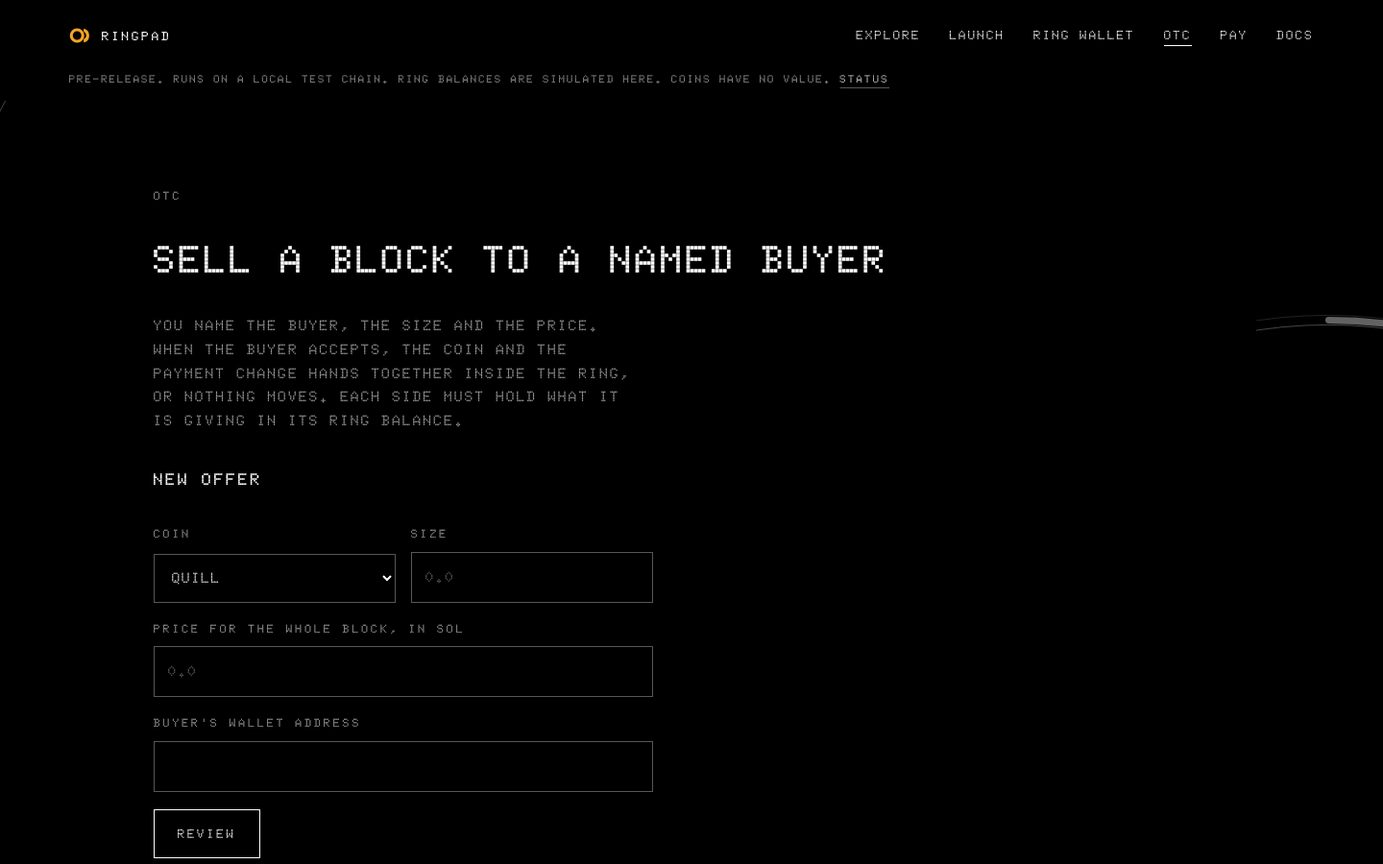
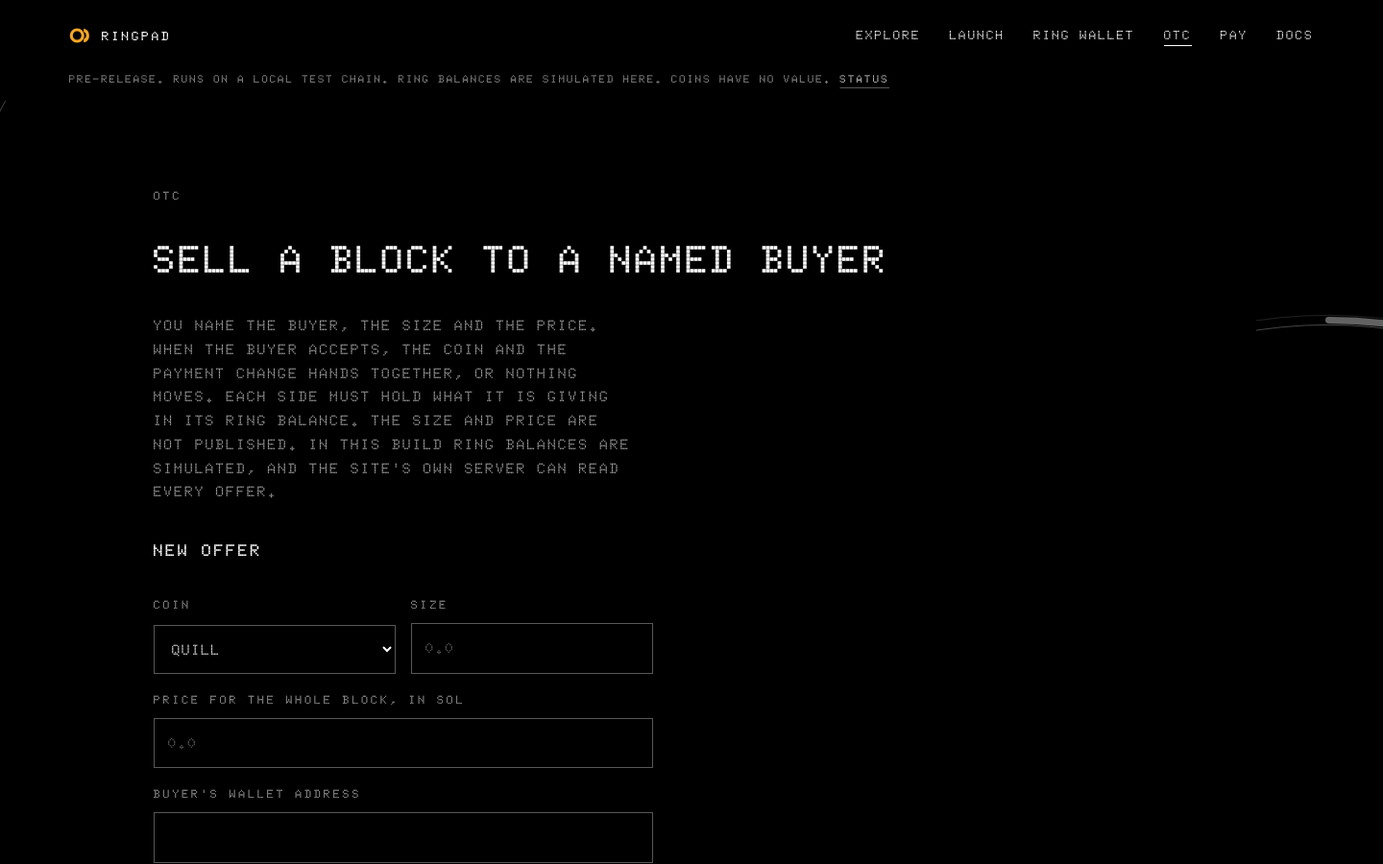
Ring plan, the list of every place the site says simulated, and the same said on each Ring page
RING-PLAN.md maps each stand-in feature to the real Privacy Rings
program and sets the order of work. SITE-WORDING.md quotes every notice.
The Ring wallet, OTC, pay and coin pages now each say that Ring balances
are simulated in this build. The sealed launch window stays off.

Claude-Session: https://claude.ai/code/session_01TfgBavJjwrrkmBWhBfTY3V

diff --git a/components/pages/PayPage.tsx b/components/pages/PayPage.tsx
@@ -34,7 +34,7 @@ function QrCode({ text }: { text: string }) {
 }
 
 const INTRO =
-  "A pay link names a recipient, a coin and an amount, and opens a Ring transfer with them filled in. Anyone who holds the link can read what it asks for. The request travels in the part of the link that browsers do not send to servers. The payment is a transfer between the two wallets: they are public, the coin and the amount are not published.";
+  "A pay link names a recipient, a coin and an amount, and opens a Ring transfer with them filled in. Anyone who holds the link can read what it asks for. The request travels in the part of the link that browsers do not send to servers. The payment is a transfer between the two wallets: they are public, the coin and the amount are not published. In this build Ring balances are simulated.";
 
 export function PayPage() {
   // The link is read in the browser: until then nothing is known, which is its own state.

diff --git a/components/pages/OtcPage.tsx b/components/pages/OtcPage.tsx
@@ -19,7 +19,7 @@ export function OtcPage() {
     <AppPage
       label="OTC"
       title="Sell a block to a named buyer"
-      intro="You name the buyer, the size and the price. When the buyer accepts, the coin and the payment change hands together inside the Ring, or nothing moves. Each side must hold what it is giving in its Ring balance."
+      intro="You name the buyer, the size and the price. When the buyer accepts, the coin and the payment change hands together, or nothing moves. Each side must hold what it is giving in its Ring balance. The size and price are not published. In this build Ring balances are simulated, and the site's own server can read every offer."
     >
       <NeedsRing>
         <WalletGate>

diff --git a/components/pages/CoinPage.tsx b/components/pages/CoinPage.tsx
@@ -113,7 +113,7 @@ export function CoinPage({ mint }: { mint: string }) {
       </dl>
       <p className="body">
         The Ring figures count what is public: the coin&apos;s total held in Ring balances, and wallets that made a deposit. How that total is split between
-        holders is encrypted, so the number of holders inside the Ring cannot be known.
+        holders is not published, so the number of holders inside the Ring cannot be known. In this build Ring balances are simulated.
       </p>
       {coin.complete ? (
         <p className="notice">This curve has completed, so the coin no longer trades on the bonding curve. It can still be held and moved in Ring balances.</p>

diff --git a/components/pages/WalletPage.tsx b/components/pages/WalletPage.tsx
@@ -27,7 +27,7 @@ export function WalletPage() {
     <AppPage
       label="Ring wallet"
       title="Deposit, transfer, withdraw"
-      intro="Moving coins into or out of a Ring balance is public. Moving them between Ring balances encrypts the coin and the amount; both wallet addresses stay public."
+      intro="Moving coins into or out of a Ring balance is public. A move between Ring balances does not publish the coin or the amount; both wallet addresses stay public. In this build Ring balances are simulated: the site's own server keeps them and can read every move."
     >
       <WalletGate>
         <NeedsRing instead={<PublicWallet />}>

diff --git a/components/PrivacyPanel.tsx b/components/PrivacyPanel.tsx
@@ -17,7 +17,7 @@ export function PrivacyPanel({ action }: { action: string }) {
           ))}
         </div>
         <div>
-          <dt>Encrypted</dt>
+          <dt>Encrypted by a Ring</dt>
           {row.encrypted.length ? (
             row.encrypted.map((item) => (
               <dd key={item} className="enc">

diff --git a/RING-PLAN.md b/RING-PLAN.md
@@ -1,0 +1,223 @@
+# Ring plan: from the stand-in to the real Privacy Rings program
+
+21 November 2026.
+
+**Where this comes from.** The SDK that is already installed in this project,
+`@heliuslabs/spr` 0.9.0-alpha: its README and its type definitions, read on this date.
+**Nothing below has been run.** A real Ring deposit was tried once on the local validator
+and failed (`InvalidTreeAccounts`); nothing has been tried on devnet, because there is no
+key. Every "should" in this file is a claim to be proven in the order given at the end.
+Where the SDK does not say, this file says "not known".
+
+## Does the finished product hold user funds?
+
+**No, with one exception that stays switched off.**
+
+- Once the stand-in is replaced, coins in a Ring balance are held by the Privacy Rings
+  program on-chain and can be spent only with the user's own keys. This site's server
+  holds no key that can move them. The escrow wallet, the ledger and the payout code are
+  deleted.
+- This site never holds a user's private key. Keys are made in the user's browser or
+  stay in their wallet extension.
+- **The exception is the sealed launch window.** It pools buyers' SOL before a coin
+  exists, and whoever holds the pool holds funds. That stays behind
+  `FEATURE_SEALED_WINDOW`, off, and does not ship without your say-so and an outside
+  review. Under the real Ring it would still be custody: see "Cannot be done".
+- A fee sponsor or relayer, if we add one, holds only its own SOL for fees.
+- Not ours, but true: Helius's protocol authorities are multisigs that can pause a Ring's
+  state trees (reported from their repository, not verified by us). A pause would stop
+  transfers and withdrawals for everyone. That is their power, not ours, and the site
+  should say so.
+
+## The pieces of the real Ring
+
+| Piece | What it is | Who runs it |
+| --- | --- | --- |
+| Shielded pool program `ring1GaLCuJnkUMVkX2JeZLTTX17wKsV4fZmPVzXANW` | Holds the coins and verifies proofs | On-chain |
+| User registry `regy3WAeRXMYuMYxr5iK3Bf9Arr3PcxGxyzAddbiqDQ` | Maps a Solana address to the keys others encrypt to | On-chain |
+| State tree `777pvSGe5LaBd9nCczvE2FXEauiwtfGJ5XRpjKyniGor` (devnet) | Where encrypted balances are recorded | On-chain |
+| Indexer (Photon) | Serves the encrypted records a wallet scans for its own | Helius |
+| Prover | Makes the zero-knowledge proof for a transfer or withdrawal. By default it runs in an enclave; the SDK checks the enclave's attestation and encrypts each request to it | Helius |
+| Solana RPC | Sends transactions | Helius, with the API key |
+
+A balance is not a number in an account. It is a set of encrypted notes that only the
+owner's keys can find and open. The wallet finds them by asking the indexer and trying
+its keys (`syncWallet`).
+
+## Feature by feature
+
+### Ring balance (reading it)
+
+| | Stand-in today | Real Ring |
+| --- | --- | --- |
+| Where it is | A number in this server's state | Encrypted notes on-chain |
+| How it is read | Signed request `ring/mine` to our server | In the browser: `syncWallet({ client, wallet, keys })`, then `wallet.balance(mint)` and `getPrivateTransactions(wallet)` |
+| Keys | None | `ShieldedKeypair.fromKeypair(SigningKey.fromEd25519Bytes(seed))` for a wallet made in the browser. For a wallet extension: `LocalKeys.fromDerivationSeed`, from the extension's signature over `ed25519DerivationMessage(publicKey)`. One signature at connect, which can replace the note-key signature we ask for today |
+| Our server | Holds and sees every balance | Holds none. Sees none |
+
+The wallet's synced state is cached in the browser, encrypted
+(`syncPersistedWallet`, `walletSnapshotCipher`), so a reload does not rescan history.
+
+### Registration
+
+| | Stand-in | Real Ring |
+| --- | --- | --- |
+| What | A line in our state | An on-chain record: `buildRegistrationTransaction({ client, owner, address })`, instruction `register` on the registry program |
+| Cost | Nothing | Rent for the record, once, paid by the user or a sponsor (`payer`) |
+| Without it | "Not registered" from our server | A transfer to that wallet fails with `WALLET_RECIPIENT_NOT_REGISTERED` |
+
+### Deposit
+
+| | Stand-in | Real Ring |
+| --- | --- | --- |
+| Transaction | A token transfer to our escrow wallet | `buildDepositTransaction({ client, feePayer, recipient, asset, splTokenAccount, amount, splTokenProgram })`, instruction `deposit` on the pool program. Token-2022 for pump.fun coins |
+| Accounts | Depositor, escrow's token account | Depositor and their token account, the coin's Ring interface (the pool's vault for that coin, made at launch by `createSplInterface`), the state tree |
+| Public | Wallet, coin, amount | The same. A deposit is public by design |
+| Our server | Receives the coins. Credits the ledger from the chain | Receives nothing. Builds nothing: the browser builds and signs |
+
+### Transfer between Ring balances
+
+| | Stand-in | Real Ring |
+| --- | --- | --- |
+| What it is | A signed request; two numbers change in our state | One Solana transaction with a proof: `buildTransferTransaction({ client, wallet, keys, feePayer, recipient, asset, amount })`, instruction `transact` |
+| Proof | None | Made by the prover from the wallet's notes. Verified on-chain |
+| Public | Both wallets, time (because we publish them) | Both wallets, time (on-chain, by design of the Default Ring) |
+| Hidden | Coin and amount, from the public only | Coin and amount, from the public and from us |
+| Note | Sealed in the browser, stored by us | **The transfer builder takes no note.** Notes stay as they are today: sealed in the browser with libsodium, stored by us as ciphertext, attached to the transfer by its signature |
+| Limits | None | A transfer spends whole notes. A wallet that has received many small payments must merge them first (`buildMergeTransaction`), or the build fails with `WALLET_TOO_MANY_INPUTS`. The interface needs a "tidy up" step |
+
+### Withdraw
+
+| | Stand-in | Real Ring |
+| --- | --- | --- |
+| Transaction | Our escrow pays out | `buildWithdrawalTransaction({ client, wallet, keys, feePayer, recipient, asset, amount, splTokenProgram })`, instruction `transact` with a public output. The recipient's token account is opened in the same transaction if needed |
+| Who signs | Our server | The user |
+| Public | Wallet, destination, coin, amount | Destination, coin, amount. The withdrawing wallet too, unless a sponsor pays the fee and the owner signs inside the proof (`owner` parameter): then the sender is not on the transaction |
+| Our server | Holds the coins, signs, tracks pending payouts | None of it. The "pending payout" and "reconcile" code goes |
+
+### Launch, with a first buy into the Ring
+
+| | Stand-in | Real Ring |
+| --- | --- | --- |
+| Create and register | Real already: pump.fun `create_v2` + Rings `createSplInterface` | Unchanged |
+| First buy into the Ring | Buy, then a token transfer to escrow | Buy, then the `deposit` instruction (`getDepositInstructionAsync`) in the same transaction |
+| Risk | | **Size.** Rings transactions are a newer format (version 1, up to 4,096 bytes); our launch is version 0 with a lookup table, 1,232 bytes. Whether create + buy + register + deposit fits in either is **not known**. If not: launch in one transaction, deposit in a second, and say so |
+| Note | | On mainnet, registering a coin with the Ring may need Helius's permission for each coin. **Not verified.** If so, a launch here cannot register by itself there |
+
+### Creator fee claim into the Ring
+
+pump.fun's claim instruction followed by the `deposit` instruction for SOL, in one
+transaction. Public either way, as now. Same size question as the launch, smaller.
+
+### Pay links
+
+Unchanged in shape. The link still carries its request after the `#`. Paying it becomes
+`buildTransferTransaction` to the recipient's address. Our server no longer sees the
+payment at all, only the sealed note if there is one.
+
+### OTC
+
+| | Stand-in | Real Ring |
+| --- | --- | --- |
+| Offer | Stored readable on our server | Sealed in the seller's browser to the buyer's key (the same libsodium sealed box as notes). We store ciphertext and the two addresses |
+| Settlement | Our ledger swaps both sides in one step | **Not known to be possible as one step.** It needs two transfers, one by each party, to land together or not at all. The plan: both `transact` instructions in one Solana transaction, signed by both. Whether two proofs fit in 4,096 bytes and the compute limit is to be proven |
+| If it does not fit | | OTC is offered only as "seller sends first" with that risk stated, or is withdrawn. It is **not** rebuilt with an escrow of ours: that would be custody |
+
+### Privacy score
+
+Both figures become plain chain reads, with no ledger behind them: the total of a coin in
+the Ring is the balance of that coin's Ring vault account; "wallets that have deposited"
+is counted from `deposit` instructions on that vault. Our server keeps a count, not a
+ledger.
+
+### Sealed notes, pictures, listings, price readings
+
+Unchanged. None of them touches a Ring balance.
+
+## What our server stops holding and seeing
+
+| | Today | Once real |
+| --- | --- | --- |
+| Coins in Ring balances | Held in our escrow wallet | Not held |
+| The escrow key | On our server's disk | Deleted |
+| Every wallet's Ring balance | Stored, readable | Not stored, not readable |
+| Coin and amount of every transfer | Stored, readable | Never sent to us |
+| OTC terms | Stored, readable | Stored sealed; not readable |
+| Pending payouts, reconciliation | Ours | Gone |
+| Ring history | Stored | Read in the browser from the indexer |
+| Signed requests for Ring actions | Verified by us | Gone: the chain verifies a proof instead |
+
+What it still holds: coin listings and pictures, price readings, sealed notes and sealed
+offers as ciphertext, request counts per address.
+
+What it still sees, and this must be said on the site:
+
+- **IP addresses**, as now.
+- **The Helius key lives on our server**, so the browser reaches the RPC, the indexer and
+  the prover through us. We therefore see every request pass. Requests to the prover are
+  encrypted to its enclave, so we cannot read them. Requests to the indexer are not
+  secret in the same way: we would see which records a browser asks for, and when. That
+  is metadata tying an IP address to a wallet's activity. Whether the indexer can be
+  queried in a way that hides this is **not known**.
+- **Helius** sees what its indexer and RPC are asked, and runs the prover. The proof's
+  secret inputs go to the prover's enclave. Making proofs in the browser instead needs
+  Helius's separate web prover package, which is not part of this SDK and which we have
+  not used; whether to adopt it is a decision for the devnet pass.
+
+## Cannot be done on the real Default Ring
+
+- **Hide either wallet address.** Every transfer shows sender and recipient. Only
+  Helius's anonymous rings would change that, and they are not released.
+- **Hide a deposit or a withdrawal.** Coin and amount are public on the way in and out.
+- **Hide anything on the bonding curve.** Launch, buys, sells and fee claims are pump.fun
+  transactions.
+- **Attach a private note to a transfer on-chain.** The transfer has no note field.
+- **Pay a wallet that has not registered.** There is nothing to encrypt to.
+- **A sealed launch window without custody.** Whoever holds the pooled SOL before the
+  coin exists holds funds, on the real Ring as on the stand-in.
+- **An OTC escrow without custody.** See OTC above.
+- **Proof of holdings above a threshold.** The Ring has no such proof. Already dropped.
+
+## What has to change in our own code
+
+1. **A seam.** One interface, `RingBackend`, with today's stand-in behind it and the real
+   Ring as a second implementation, chosen by `RING_NETWORK`. Pages call the interface.
+2. **The SDK runs in the browser.** Keys must not reach our server. Its endpoints go
+   through a proxy route on our server that adds the Helius key.
+3. **Signing.** Rings transactions are version 1. Our signing code reads legacy and
+   version 0 only, and wallet extensions must be able to sign version 1. **Not known**
+   whether today's extensions do.
+4. **Two libraries.** The SDK uses `@solana/kit`; pump.fun's SDK uses `web3.js`. The
+   launch needs instructions from both in one transaction.
+5. **Deleted once real:** `lib/server/escrow.ts`, `lib/server/ring.ts`, most of
+   `lib/server/settle.ts`, the withdrawal and reconcile operations, the escrow rows on
+   the status page, and every "simulated" sentence listed in `SITE-WORDING.md`.
+
+## Order of work, each step proven before the next
+
+| # | Step | Proven by | Stops the plan if |
+| --- | --- | --- | --- |
+| 0 | The seam: `RingBackend`, with the stand-in behind it. No behaviour changes | Every existing test still passes | |
+| 1 | Reach devnet: proxy route, `createSprClient`, prover attestation check | A script that prints the client's health; `npm run doctor` | Helius's Ring endpoints are not open to our key |
+| 2 | Keys and registration for a browser-made wallet | The registry record read back from the chain | |
+| 3 | Deposit SOL, then a pump.fun Token-2022 coin | Vault balance on-chain rises by exactly the amount; `syncWallet` shows it | The Ring refuses pump.fun coins on devnet |
+| 4 | Read balance and history in the browser; encrypted local cache | Reload shows the same balance without a rescan | |
+| 5 | Transfer between two registered wallets | Both wallets' synced balances; the transaction on-chain shows no coin or amount | Proofs cannot be had with our key |
+| 6 | Withdraw, to self and to a fresh address | Destination's on-chain balance; vault falls by exactly the amount | |
+| 7 | Merge, and the "tidy up" step in the interface | A wallet with many small notes can send again | |
+| 8 | Launch with first buy into the Ring, and fee claim into the Ring | One transaction if it fits; otherwise two, and the page says two | |
+| 9 | Pay links on real transfers | The existing pay-link browser run, on devnet | |
+| 10 | Wallet extensions: key derivation by signature; version 1 signing | A real extension, on your machine. I cannot run one here | Extensions cannot sign version 1 |
+| 11 | OTC: sealed offers; one-transaction settlement, if it fits | Both sides' balances after one transaction; neither moves if it fails | It does not fit: OTC is reduced or withdrawn |
+| 12 | Privacy score from the vault; status page from the chain | Figures equal direct chain reads | |
+| 13 | Delete the stand-in and its wording. Sponsor for withdrawal fees, if wanted | `npm run scan`; the wording test; the full report repeated on devnet | |
+
+Each step gets flow tests against devnet beside the local ones, and the browser checks
+are repeated on devnet at steps 6, 9 and 13. The local validator keeps the stand-in for
+offline tests until step 13, behind the seam.
+
+## What I need to start
+
+`HELIUS_API_KEY`, and a few devnet SOL in a wallet whose address I will give you
+(`NEEDS.md`, items 2 and 3). Nothing else blocks step 0, which needs no key and which I
+have not started, as you asked me to stop here.

diff --git a/SITE-WORDING.md b/SITE-WORDING.md
@@ -1,0 +1,86 @@
+# Where the site says something is simulated, not connected, or not final
+
+21 November 2026. Every place a visitor is told that a feature is a stand-in, for you to
+check the wording. Text is quoted as it appears (the site shows it in capitals).
+
+A test (`test/unit/site.test.ts`) fails if the homepage's own copy calls anything the
+stand-in does "encrypted", or if the site says "anonymous", "untraceable",
+"zero-knowledge", "shielded" and similar.
+
+## On every page
+
+| Where | Wording | Source |
+| --- | --- | --- |
+| The line under the header, local chain | "Pre-release. Runs on a local test chain. Ring balances are simulated here. Coins have no value. Status" | `components/Chrome.tsx` |
+| The same line, devnet | "Pre-release. Runs on Solana devnet. Ring balances are not connected yet. Coins have no value. Status" | `components/Chrome.tsx` |
+| The same line, server down | "Pre-release. This site's server is not answering." | `components/Chrome.tsx` |
+| Footer | "This is a pre-release build and is unaudited. Privacy Rings and their SDK are alpha software. Nothing here is financial advice. Coins launched on a bonding curve are speculative and can go to zero." | `components/Chrome.tsx` |
+| Footer | "RINGPAD is an independent project. It is not affiliated with, endorsed by or operated by Helius, pump.fun, or any other site built on Privacy Rings." | `components/Chrome.tsx` |
+
+## Homepage
+
+| Where | Wording | Source |
+| --- | --- | --- |
+| "How it works", callout 04 | "A Ring keeps your balance encrypted on-chain. Simulated in this build." | `site.config.ts` |
+| "What is hidden, and what is not" | "This table describes the Privacy Rings design. In this pre-release build the Ring's balances are simulated; see the Docs for exactly what is real today." | `app/page.tsx` |
+| "What RINGPAD adds", five features | "Works on the local test chain" beside each | `app/page.tsx` |
+| The same list, sealed window | "Built, switched off" and "It holds buyers' funds, so it is built but switched off." | `app/page.tsx` |
+
+## Ring wallet, OTC, Pay, coin pages
+
+| Where | Wording | Source |
+| --- | --- | --- |
+| Ring wallet, introduction | "In this build Ring balances are simulated: the site's own server keeps them and can read every move." | `components/pages/WalletPage.tsx` |
+| OTC, introduction | "In this build Ring balances are simulated, and the site's own server can read every offer." | `components/pages/OtcPage.tsx` |
+| Pay links, introduction | "In this build Ring balances are simulated." | `components/pages/PayPage.tsx` |
+| Coin page, under the Ring figures | "How that total is split between holders is not published, so the number of holders inside the Ring cannot be known. In this build Ring balances are simulated." | `components/pages/CoinPage.tsx` |
+| Before every signature, the privacy panel | A column headed "Encrypted by a Ring", then a line beginning "In this build:" that says what does the work today, for example "A request signed by your wallet to the stand-in, which can read the coin and the amount." | `components/PrivacyPanel.tsx`, `lib/visibility.ts` |
+| Ring wallet history | "Not published:" before a transfer's coin and amount (not "Encrypted") | `components/ui/RingEventRow.tsx` |
+| Ring wallet, OTC and Pay on devnet | "Ring balances are not connected on this network in this build. Launching, buying and selling coins work here. Holding and moving coins in a Ring does not yet." | `components/ui/NeedsRing.tsx` |
+| Launch page, sealed window (only when switched on) | "Experimental, and switched on by this site's operator. A window holds what buyers commit until the coin is launched. In this build it is held by the stand-in's escrow wallet on a local test chain." | `components/pages/SealedWindows.tsx` |
+
+## Status page
+
+| Where | Wording | Source |
+| --- | --- | --- |
+| Ring balances row | "Simulated by a local stand-in. The Privacy Rings program does not hold them in this build." | `components/pages/StatusPage.tsx` |
+| Escrow row | "Stand-in escrow wallet" | same |
+| Table heading | "What the stand-in holds against what it owes" | same |
+
+## Docs
+
+| Where | Wording | Source |
+| --- | --- | --- |
+| Opening | "RINGPAD is a pre-release. It runs on a local test chain. Nothing here is live and coins have no value." | `app/docs/page.tsx` |
+| "What is real in this build", Ring balances | "Simulated. A local stand-in keeps the balances and follows the same rules for what is public. It is not encryption: the stand-in's operator can read everything." | same |
+| The same table, pictures of the ring | "Placeholders drawn in code." | same |
+| The visibility table | A column "In this build" for every action | same, from `lib/visibility.ts` |
+| "What is alpha, and what is not built" | "A sealed launch window is built and switched off. It pools buyers' commitments and buys in the coin's first transaction. It holds buyers' funds, which this build does only on a local test chain." | same |
+
+## Technical page
+
+| Where | Wording | Source |
+| --- | --- | --- |
+| "Whose logic is whose", Ring balances | "Meant to be Privacy Rings. Not in this build." and "A stand-in ledger and escrow wallet with the Ring's rules for what is public." | `app/technical/page.tsx` |
+| "How a launch is laid out" | "Steps 6 and 7 are this build's stand-in for a Ring deposit." and "A transfer between Ring balances, an OTC settlement and a pay-link payment are not transactions in this build: they are signed requests to the stand-in." | same |
+| "Who you are trusting" | "Kept by a stand-in on this site's server. Its operator can read every transfer and controls the escrow wallet. This is acceptable on a test chain with coins of no value, and nowhere else: the stand-in refuses to start on any other network." | same |
+| "Known limits" | "Ring balances exist on a local test chain only. Devnet mode launches and trades coins but has not been run against real devnet." and "Ring balances are simulated. Nothing here is encrypted by the Ring today." | same |
+
+## Terms and Privacy Policy
+
+| Where | Wording | Source |
+| --- | --- | --- |
+| Top of both | "Draft. Not yet reviewed by a lawyer." | `app/terms/page.tsx`, `app/privacy/page.tsx` |
+| Top of both, operator | "Not yet filled in. [OPERATOR NAME: TO BE FILLED IN]", and the same for country and contact | `components/Operator.tsx`, `site.config.ts` |
+| Terms | "The project is a pre-release. It runs on a test chain, where coins have no value." | `app/terms/page.tsx` |
+| Terms | "In this pre-release, Ring balances are simulated: coins you deposit on the test chain are held by a stand-in run by this site. That arrangement exists only on a test chain and will not be used with coins of value." | same |
+| Privacy Policy | "Ring balances are simulated by a stand-in that runs on this site's server, so the server sees each transfer's wallets, coin and amount, and each OTC offer, in readable form. Under the real Ring it would see the wallets and encrypted data." | `app/privacy/page.tsx` |
+
+## Places that say nothing about it, and why
+
+- **Explore, Launch, a coin's trade form, receipts.** These use the real pump.fun and
+  Privacy Rings programs. The line under the header still applies.
+- **The ring pictures.** They are placeholders. You asked that the site never label them;
+  the Docs table is the one place that says so.
+- **The changelog.** It lists what was built and says "simulated Ring ledger" where that
+  was the thing built.

diff --git a/DECISIONS.md b/DECISIONS.md
@@ -82,6 +82,8 @@ Calls made without asking, newest last. Each can be reversed; the note says how.
 | 76 | The note-key message a wallet extension signs names the site it is for | So another site cannot ask for the same signature. Moving the site to a new address means extension wallets get a new note key and cannot open older notes | `noteKeyMessage` in `lib/notes.ts` |
 | 77 | The request limit ignores the forwarding header unless `TRUSTED_PROXY_HOPS` is set | The header is written by the caller | `callerOf` in `lib/server/limit.ts` |
 | 78 | The site's server is not rate-limited per wallet, only per address | Enough for a preview; noted as a limit | n/a |
+| 79 | Owner's decision, 21 November: the sealed launch window stays off. It holds buyers' funds, so it stays behind its flag and never ships without the owner's say-so and an outside review | Your instruction | `FEATURE_SEALED_WINDOW`; do not change its default |
+| 80 | The real Ring will be built behind one interface with the stand-in, proving each step on devnet before the next; OTC is reduced or withdrawn rather than given an escrow of ours | So the finished product holds no user funds | `RING-PLAN.md` |
 
 ## Only you
 

diff --git a/CLAUDE.md b/CLAUDE.md
@@ -20,6 +20,10 @@ All media in `brand/` is a stand-in drawn in code. See `brand/README.md`.
   mainnet key, never point a default RPC at mainnet, unless the owner asks in so many words.
 - No custody of user funds beyond the local mock. The mock refuses to run off a local
   validator (`assertLocalOnly`). Do not loosen that without the owner asking.
+- The sealed launch window stays off. It holds buyers' funds. Never change the default of
+  `FEATURE_SEALED_WINDOW`, and never ship it switched on, without the owner saying so and an
+  outside review.
+- The plan for replacing the stand-in with the real Ring is `RING-PLAN.md`. Follow its order.
 - No token. Ask the owner before adding one.
 - No fake stats, testimonials, partners, audit badges or "first ever" claims. Numbers on the
   site come from the chain or are not shown. Alpha technology is labelled alpha. Mocks and

diff --git a/PROGRESS.md b/PROGRESS.md
@@ -55,7 +55,7 @@ generated or verified by this code.
 
 ### 5. Decisions made for you
 
-All 78 are in `DECISIONS.md` with the reason and how to reverse each. Yours, from 21
+All 80 are in `DECISIONS.md` with the reason and how to reverse each. Yours, from 21
 November, are row 63. The ones made since that you would most want to know: Postgres
 keeps the state as one document with one writer; devnet mode has no Ring balances; a
 withdrawal now charges the wallet its network fee and any account rent; new backups use a
@@ -117,7 +117,9 @@ fixes.
 
 ## Doing
 
-Nothing in flight.
+Nothing in flight. Stopped on 21 November at your request, waiting for the items in
+`NEEDS.md`. `RING-PLAN.md` is the plan for the real Ring; `SITE-WORDING.md` lists every
+place the site says a feature is simulated or not connected.
 
 ## Next
 
